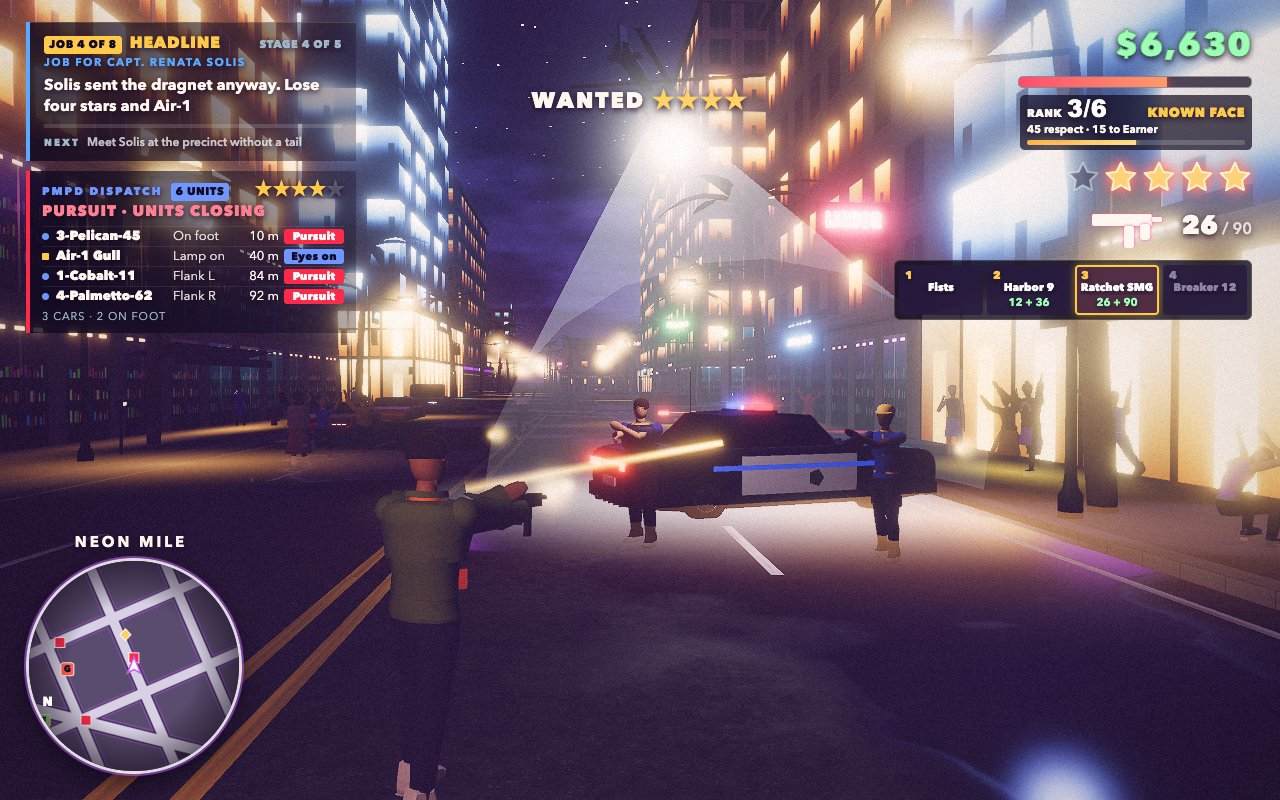
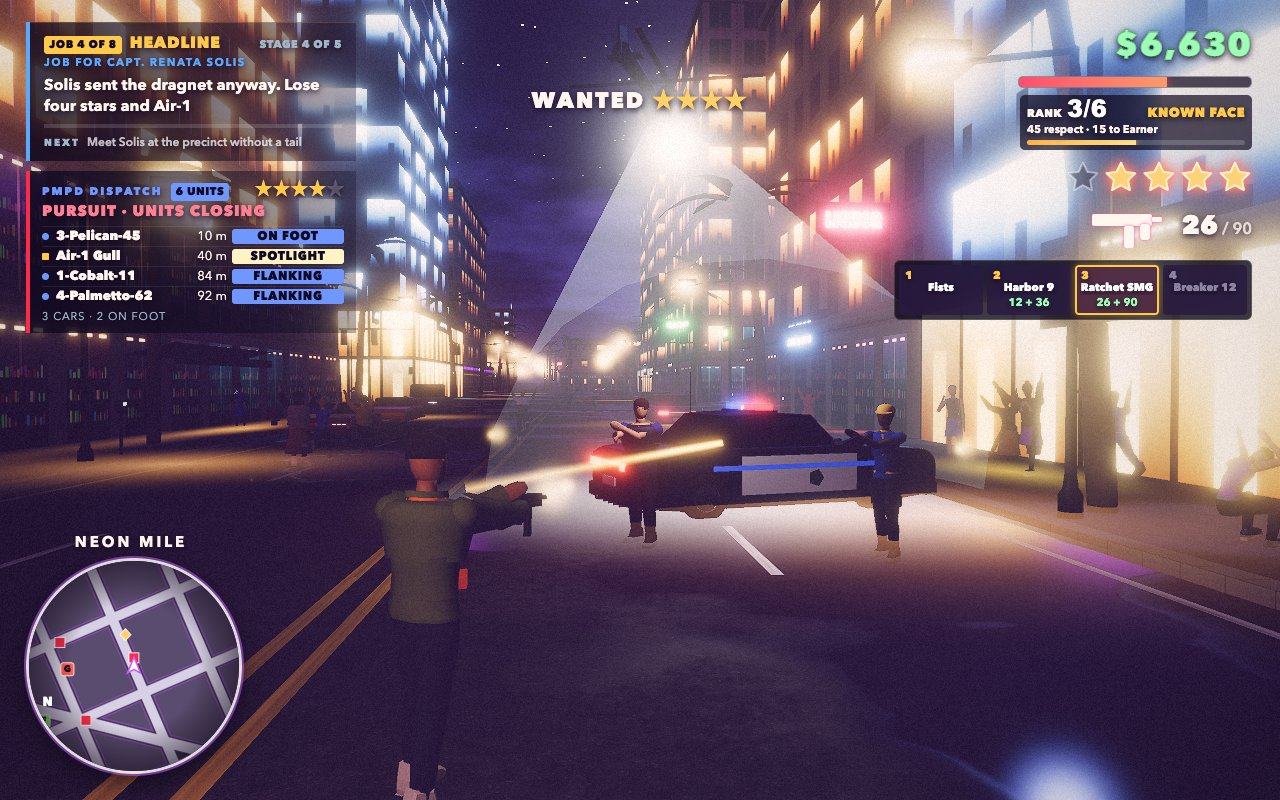
feat(hud): each dispatch chip says what the unit is doing
RAMMING, FLANKING, CUTTING OFF, ON FOOT, SPOTLIGHT, OVERHEAD, ROADBLOCK, SEARCHING or RETURNING,
from the role, mode and officers-out state the police code holds. The plain job word beside it goes.
The cover check tests every chip on the sheet and in a true 768x480 window.

Changed region(s): [[0.125, 0.2812, 0.2812, 0.4062]]

diff --git a/game/src/police/report.test.js b/game/src/police/report.test.js
@@ -1,7 +1,7 @@
-// Unit tests for the dispatch report: sorting, call signs, roadblock and helicopter rows, officer count.
+// Unit tests for the dispatch report: the job each unit is doing, call signs, order and the responding count.
 import test from 'node:test';
 import assert from 'node:assert/strict';
-import { policeReport, callSign, stateKey, MODE_STATE, ROLE_BRIEF } from './report.js';
+import { policeReport, callSign, jobKey, JOBS } from './report.js';
 
 const unit = (index, x, z, role, mode, officersOut = false) => ({
   car: { index }, vehicle: { x, z, speed: 10 }, driver: { role }, mode, officersOut,
@@ -23,6 +23,12 @@ function fakePolice({ heli = false } = {}) {
   };
 }
 
+/** The job on the chip of a single car in this state. */
+function carJob(role, mode, officersOut = false) {
+  const police = { units: { units: [unit(0, 5, 0, role, mode, officersOut)] }, officers: { pool: [] } };
+  return policeReport(police, 0, 0).rows[0].job;
+}
+
 test('rows are sorted nearest first and nearest is the first distance', () => {
   const report = policeReport(fakePolice(), 0, 0);
   const metres = report.rows.map((row) => row.metres);
@@ -31,49 +37,59 @@ test('rows are sorted nearest first and nearest is the first distance', () => {
   assert.equal(report.cars, 3);
 });
 
-test('cruisers get stable radio call signs, roles and states', () => {
-  const report = policeReport(fakePolice(), 0, 0);
-  const cars = report.rows.filter((row) => row.kind === 'car');
+test('cruisers get stable radio call signs', () => {
+  const cars = policeReport(fakePolice(), 0, 0).rows.filter((row) => row.kind === 'car');
   assert.equal(cars.length, 3);
   const first = cars.find((row) => row.metres === 30);
   assert.equal(first.call, callSign(1));
   assert.match(first.call, /^\d-[A-Z][a-z]+-\d+$/);
-  assert.equal(first.detail, 'Flank left');
-  assert.equal(first.state, 'Search');
-  assert.equal(cars.find((row) => row.metres === 200).state, 'Return');
   assert.notEqual(callSign(1), callSign(2));
 });
 
-test('a roadblock row counts its cars and standing officers', () => {
-  const block = policeReport(fakePolice(), 0, 0).rows.find((row) => row.kind === 'block');
-  assert.equal(block.call, 'Roadblock');
-  assert.equal(block.detail, '2 cars, 1 out');
-  assert.equal(block.brief, '2 cars');
+test('a pursuing car says what its role does', () => {
+  assert.equal(carJob('ram', 'pursue'), 'RAMMING');
+  assert.equal(carJob('left', 'pursue'), 'FLANKING');
+  assert.equal(carJob('right', 'pursue'), 'FLANKING');
+  assert.equal(carJob('block', 'pursue'), 'CUTTING OFF');
 });
 
-test('every brief job word fits a HUD row whole: seven letters at most, never cut with an ellipsis', () => {
-  const rows = [...policeReport(fakePolice(), 0, 0).rows, ...policeReport(fakePolice({ heli: true }), 0, 0).rows];
-  for (const row of rows) assert.ok(row.brief && row.brief.length <= 7 && !row.brief.includes('…'), row.brief);
-  for (const brief of Object.values(ROLE_BRIEF)) assert.ok(brief.length <= 7, brief);
+test('a car without a known role is driven as a rammer, so it reads as one', () => {
+  assert.equal(carJob(undefined, 'pursue'), 'RAMMING');
 });
 
-test('the helicopter shows only while active, as Air-1 Gull', () => {
+test('the mode outranks the role: officers out, then a search; a car going back is only returning', () => {
+  assert.equal(carJob('ram', 'search'), 'SEARCHING');
+  assert.equal(carJob('block', 'leave'), 'RETURNING');
+  assert.equal(carJob('left', 'pursue', true), 'ON FOOT');
+  assert.equal(carJob('left', 'search', true), 'ON FOOT');
+  assert.equal(carJob('left', 'leave', true), 'RETURNING');
+});
+
+test('the helicopter shows only while active, on the spotlight or overhead', () => {
   assert.equal(policeReport(fakePolice(), 0, 0).rows.some((row) => row.kind === 'air'), false);
-  const air = policeReport(fakePolice({ heli: true }), 0, 0).rows.find((row) => row.kind === 'air');
-  assert.equal(air.call, 'Air-1 Gull');
-  assert.equal(air.metres, 50);
-  assert.equal(air.state, 'Eyes on');
+  const airRow = (police) => policeReport(police, 0, 0).rows.find((row) => row.kind === 'air');
+  const police = fakePolice({ heli: true });
+  assert.deepEqual(airRow(police), { call: 'Air-1 Gull', kind: 'air', metres: 50, job: 'SPOTLIGHT' });
+  police.helicopter.state.spot = null;
+  assert.equal(airRow(police).job, 'OVERHEAD');
+});
+
+test('a roadblock is a row of its own', () => {
+  const block = policeReport(fakePolice(), 0, 0).rows.find((row) => row.kind === 'block');
+  assert.deepEqual(block, { call: 'Roadblock', kind: 'block', metres: 10, job: 'ROADBLOCK' });
+});
+
+test('there are nine jobs, each in caps, short enough for its chip, with a chip key of its own', () => {
+  const words = Object.values(JOBS);
+  assert.deepEqual(words.map(jobKey), ['ramming', 'flanking', 'cutting-off', 'on-foot', 'spotlight', 'overhead',
+    'roadblock', 'searching', 'returning']);
+  for (const word of words) assert.ok(word === word.toUpperCase() && word.length <= 11 && !word.includes('…'), word);
 });
 
 test('units count responding cars, officers on foot, the helicopter and roadblocks, not cars on the way back', () => {
   // Two cars still on it (the third returns), two officers standing and one roadblock.
   assert.equal(policeReport(fakePolice(), 0, 0).responding, 5);
   assert.equal(policeReport(fakePolice({ heli: true }), 0, 0).responding, 6);
-});
-
-test('every state the report gives has a chip key of its own', () => {
-  const states = [...Object.values(MODE_STATE), 'Eyes on', 'Holding'];
-  assert.deepEqual(states.map(stateKey), ['pursuit', 'search', 'return', 'eyes-on', 'holding']);
 });
 
 test('officers count only the active ones still standing; an empty force reports nothing', () => {

diff --git a/game/src/police/report.js b/game/src/police/report.js
@@ -1,18 +1,36 @@
-// Dispatch report: turns the live police state into radio-style rows (call sign, job, distance, state) for the HUD.
+// Dispatch report: turns the live police state into radio rows (call sign, distance, what it is doing) for the HUD.
 
 /** Port Meridian PD radio names; a cruiser's call sign comes from its fleet slot so it stays the same all chase. */
 export const CALL_NAMES = Object.freeze(['Cobalt', 'Marlin', 'Palmetto', 'Lantern', 'Harbor', 'Solano', 'Pelican']);
 
-/** What each pursuit role does, in dispatch words. */
-export const ROLE_DETAIL = Object.freeze({ ram: 'Ram', left: 'Flank left', right: 'Flank right', block: 'Cut off' });
-/** The same jobs in at most seven letters, so a HUD row never has to cut them short. */
-export const ROLE_BRIEF = Object.freeze({ ram: 'Ram', left: 'Flank L', right: 'Flank R', block: 'Cut off' });
+/** Everything a unit can be doing, as the word on its chip. */
+export const JOBS = Object.freeze({
+  ramming: 'RAMMING',
+  flanking: 'FLANKING',
+  cuttingOff: 'CUTTING OFF',
+  onFoot: 'ON FOOT',
+  spotlight: 'SPOTLIGHT',
+  overhead: 'OVERHEAD',
+  roadblock: 'ROADBLOCK',
+  searching: 'SEARCHING',
+  returning: 'RETURNING',
+});
 
-/** Unit mode to the state word on the panel. */
-export const MODE_STATE = Object.freeze({ pursue: 'Pursuit', search: 'Search', leave: 'Return' });
+/** The job of each pursuit role in pursuit.js, which drives an unknown role as a rammer. */
+const ROLE_JOB = Object.freeze({
+  ram: JOBS.ramming, left: JOBS.flanking, right: JOBS.flanking, block: JOBS.cuttingOff,
+});
 
-/** A state word as the key of its chip on the panel: 'Eyes on' becomes 'eyes-on'. */
-export const stateKey = (state) => state.toLowerCase().replaceAll(' ', '-');
+/** A job as the key of its chip colour: 'CUTTING OFF' becomes 'cutting-off'. */
+export const jobKey = (job) => job.toLowerCase().replaceAll(' ', '-');
+
+/** A car going back is only returning; otherwise officers out outrank a search, and a search outranks the role. */
+function carJob(unit) {
+  if (unit.mode === 'leave') return JOBS.returning;
+  if (unit.officersOut) return JOBS.onFoot;
+  if (unit.mode === 'search') return JOBS.searching;
+  return ROLE_JOB[unit.driver?.role] ?? JOBS.ramming;
+}
 
 /** "2-Cobalt-31": district division, radio name and unit number, all from the car's slot. */
 export function callSign(index) {
@@ -23,19 +41,16 @@ export function callSign(index) {
   return `${division}-${name}-${number}`;
 }
 
-/** policeReport(police, x, z) → { rows, cars, officers, nearest }; rows sorted nearest first. */
+/** policeReport(police, x, z) → { rows, cars, officers, responding, nearest }; rows sorted nearest first. */
 export function policeReport(police, x, z) {
   const rows = [];
   const metresTo = (px, pz) => Math.round(Math.hypot(px - x, pz - z));
   for (const unit of police.units.units) {
-    const onFoot = unit.officersOut && unit.mode !== 'leave';
     rows.push({
       call: callSign(unit.car?.index ?? rows.length),
       kind: 'car',
-      detail: onFoot ? 'Officers out' : ROLE_DETAIL[unit.driver?.role] ?? 'Patrol',
-      brief: onFoot ? 'On foot' : ROLE_BRIEF[unit.driver?.role] ?? 'Patrol',
       metres: metresTo(unit.vehicle.x, unit.vehicle.z),
-      state: MODE_STATE[unit.mode] ?? 'Pursuit',
+      job: carJob(unit),
     });
   }
   const air = police.helicopter?.state;
@@ -43,26 +58,16 @@ export function policeReport(police, x, z) {
     rows.push({
       call: 'Air-1 Gull',
       kind: 'air',
-      detail: air.spot ? 'Searchlight' : 'Overhead',
-      brief: air.spot ? 'Lamp on' : 'Above',
       metres: metresTo(air.x, air.z),
-      state: air.spot ? 'Eyes on' : 'Search',
+      job: air.spot ? JOBS.spotlight : JOBS.overhead,
     });
   }
   for (const block of police.roadblocks?.blocks ?? []) {
-    const standing = block.officers.filter((o) => o.active && !o.down).length;
-    rows.push({
-      call: 'Roadblock',
-      kind: 'block',
-      detail: `${block.cars.length} cars, ${standing} out`,
-      brief: `${block.cars.length} ${block.cars.length === 1 ? 'car' : 'cars'}`,
-      metres: metresTo(block.x, block.z),
-      state: 'Holding',
-    });
+    rows.push({ call: 'Roadblock', kind: 'block', metres: metresTo(block.x, block.z), job: JOBS.roadblock });
   }
   rows.sort((a, b) => a.metres - b.metres);
   const officers = police.officers.pool.filter((o) => o.active && !o.down).length;
   // Responding: every row still on the call (car, helicopter, roadblock) plus each officer on foot.
-  const responding = rows.filter((row) => row.state !== MODE_STATE.leave).length + officers;
+  const responding = rows.filter((row) => row.job !== JOBS.returning).length + officers;
   return { rows, cars: police.units.units.length, officers, responding, nearest: rows.length ? rows[0].metres : null };
 }

diff --git a/game/src/ui/hudpolice.css b/game/src/ui/hudpolice.css
@@ -66,7 +66,7 @@
 #hud .dispatch-rows { list-style: none; margin: 0; padding: 0; }
 #hud .dispatch-row {
   display: grid;
-  grid-template-columns: 9px 112px 1fr 44px 60px;
+  grid-template-columns: 9px 1fr 48px 112px;
   align-items: center;
   column-gap: 5px;
   padding: 1px 0;
@@ -82,34 +82,42 @@
 }
 #hud .dispatch-row.air::before { background: var(--mc-gold, #ffc94a); border-radius: 1px; }
 #hud .dispatch-row.block::before { background: var(--mc-police-red, #ff2a4a); border-radius: 1px; }
-/* Short call signs and seven-letter jobs fit the columns whole, so nothing is cut off with an ellipsis. */
+/* Call signs and the longest job (CUTTING OFF) fit their columns whole, so nothing is cut off with an ellipsis. */
 #hud .dispatch-row .call { font-weight: 800; }
-#hud .dispatch-row .detail { opacity: 0.86; }
 #hud .dispatch-row .metres { text-align: right; font-variant-numeric: tabular-nums; }
-/* Each state word sits on a chip in a police lamp colour: red in pursuit, blue with eyes on, amber for a block. */
-#hud .dispatch-row .state {
-  justify-self: end;
+/* Each job sits on a chip in a lamp colour: red on the car in front, blue beside or on foot, cream for the light. */
+#hud .dispatch-row .unit-job {
   box-sizing: border-box;
-  width: 100%;
   margin: 1px 0;
-  padding: 0 2px;
+  padding: 0 3px;
   border-radius: 3px;
+  background: var(--mc-ui-ink, #120a24);
   text-align: center;
-  font-size: 11px;
+  font-size: 12px;
   font-weight: 800;
   line-height: 15px;
-  letter-spacing: 0.3px;
+  letter-spacing: 0.6px;
   text-shadow: none;
 }
-#hud .state[data-chip="pursuit"] { background: var(--mc-police-red, #ff2a4a); color: #fff; }
-#hud .state[data-chip="eyes-on"] { background: var(--mc-police-blue, #6f97ff); color: var(--mc-ui-ink, #120a24); }
-#hud .state[data-chip="holding"] { background: var(--mc-police-amber, #ffb03a); color: var(--mc-ui-ink, #120a24); }
-#hud .state[data-chip="search"] {
-  background: var(--mc-ui-ink, #120a24);
+#hud .unit-job:is([data-chip="ramming"], [data-chip="cutting-off"]) {
+  background: var(--mc-police-red, #ff2a4a);
+  color: #fff;
+}
+#hud .unit-job:is([data-chip="flanking"], [data-chip="on-foot"]) {
+  background: var(--mc-police-blue, #6f97ff);
+  color: var(--mc-ui-ink, #120a24);
+}
+#hud .unit-job[data-chip="spotlight"] { background: #fff3c4; color: var(--mc-ui-ink, #120a24); }
+#hud .unit-job[data-chip="overhead"] {
+  color: var(--mc-police-blue, #6f97ff);
+  box-shadow: inset 0 0 0 1px var(--mc-police-blue, #6f97ff);
+}
+#hud .unit-job[data-chip="roadblock"] { background: var(--mc-police-amber, #ffb03a); color: var(--mc-ui-ink, #120a24); }
+#hud .unit-job[data-chip="searching"] {
   color: var(--mc-police-amber, #ffb03a);
   box-shadow: inset 0 0 0 1px var(--mc-police-amber, #ffb03a);
 }
-#hud .state[data-chip="return"] { background: var(--mc-ui-tint, #9fb7c9); color: var(--mc-ui-ink, #120a24); }
+#hud .unit-job[data-chip="returning"] { background: var(--mc-ui-tint, #9fb7c9); color: var(--mc-ui-ink, #120a24); }
 #hud .dispatch-count {
   margin-top: 4px;
   font-size: 11px;
@@ -185,8 +193,8 @@
   #hud .leftcol { top: 14px; left: 14px; width: 292px; gap: 6px; }
   #hud .dispatch { padding: 5px 9px 6px; font-size: 11px; line-height: 1.2; }
   #hud .dispatch-state { font-size: 12px; margin-bottom: 3px; }
-  #hud .dispatch-row { grid-template-columns: 7px 96px 1fr 40px 52px; column-gap: 4px; }
-  #hud .dispatch-row .state { margin: 0; font-size: 9px; line-height: 12px; }
+  #hud .dispatch-row { grid-template-columns: 7px 1fr 42px 94px; column-gap: 4px; }
+  #hud .dispatch-row .unit-job { margin: 0; font-size: 10px; line-height: 12px; }
   #hud .dispatch-head { gap: 5px; }
   #hud .dispatch-tag { font-size: 9px; letter-spacing: 1px; }
   #hud .dispatch-units { padding: 0 3px; font-size: 9px; line-height: 12px; }

diff --git a/game/src/ui/policepanel.js b/game/src/ui/policepanel.js
@@ -1,5 +1,5 @@
-// Police dispatch panel: units and stars in the head, the chase state, up to six unit rows with state chips, totals.
-import { stateKey } from '../police/report.js';
+// Police dispatch panel: units and stars in the head, the chase state, up to six unit rows with job chips, totals.
+import { jobKey } from '../police/report.js';
 
 const MAX_ROWS = 6;
 const CLEAR_SECONDS = 4;
@@ -35,9 +35,8 @@ export function createPolicePanel(parent) {
     rows.push({
       li,
       call: make(li, 'call', 'span'),
-      detail: make(li, 'detail', 'span'),
       metres: make(li, 'metres', 'span'),
-      state: make(li, 'state', 'span'),
+      job: make(li, 'unit-job', 'span'),
       key: null,
     });
   }
@@ -63,18 +62,16 @@ export function createPolicePanel(parent) {
     for (let i = 0; i < MAX_ROWS; i += 1) {
       const slot = rows[i];
       const row = items[i];
-      const key = row ? `${row.call}|${row.detail}|${row.metres}|${row.state}` : '';
+      const key = row ? `${row.call}|${row.metres}|${row.job}` : '';
       if (key === slot.key) continue;
       slot.key = key;
       slot.li.style.display = row ? '' : 'none';
       if (!row) continue;
       slot.li.className = `dispatch-row ${row.kind}`;
       slot.call.textContent = row.call;
-      slot.detail.textContent = row.brief ?? row.detail;
-      slot.detail.title = row.detail;
       slot.metres.textContent = formatMetres(row.metres);
-      slot.state.textContent = row.state;
-      slot.state.dataset.chip = stateKey(row.state);
+      slot.job.textContent = row.job;
+      slot.job.dataset.chip = jobKey(row.job);
     }
     const extra = items.length > MAX_ROWS ? ` · +${items.length - MAX_ROWS} more` : '';
     count.textContent = report
@@ -101,8 +98,9 @@ export function createPolicePanel(parent) {
         return;
       }
       last.stars = starCount;
-      const key = `${starCount}|${searching}|${report.cars}|${report.officers}|${report.rows.length}|`
-        + report.rows.slice(0, MAX_ROWS).map((r) => `${r.call}${r.metres}${r.state}${r.detail}`).join(',');
+      const key = `${starCount}|${searching}|${report.cars}|${report.officers}|${report.responding}|`
+        + `${report.rows.length}|`
+        + report.rows.slice(0, MAX_ROWS).map((r) => `${r.call}${r.metres}${r.job}`).join(',');
       show(true);
       if (key === last.key) return;
       last.key = key;
